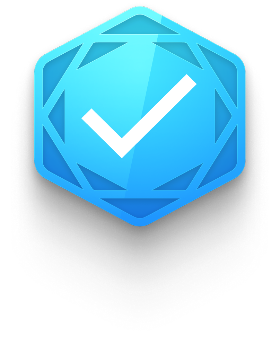
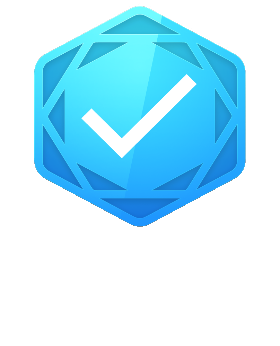
fix(profile): remove the drop shadow baked into the badge artwork
Every badge PNG carried a grey drop shadow. On the light theme it showed
as a grey smudge under the badges, and super.png's shadow ran off the
bottom of its canvas, which cut it off in a hard horizontal line.

The shadow pixels are stripped (near-black translucent pixels outside the
opaque artwork and its anti-aliased edge); canvas sizes are unchanged so
the art boxes in user-badge-assets.ts still hold. A test now fails if a
badge brings a baked-in shadow back or touches the bottom of its canvas.

Changed region(s): [[0.0857, 0.2023, 0.9143, 0.7803]]

diff --git a/test/user-badge-assets.test.js b/test/user-badge-assets.test.js
@@ -227,3 +227,26 @@ test('badge artwork stays within the mobile asset budget', () => {
     assert.ok(png.height <= maxHeight, `${name} height is ${png.height}`);
   }
 });
+
+test('badge artwork carries no baked-in drop shadow', () => {
+  // 原图带一层烤进去的灰色投影:白色主题下徽章底下一片灰,super.png 的投影还在画布底边
+  // 被截断成一条横线。投影像素是近乎纯黑的半透明像素(真正的抗锯齿边带着徽章自己的颜色)。
+  // 设计给的新徽章图要先去掉投影、画布尺寸不变(艺术框比例在 user-badge-assets.ts 里)。
+  const { PNG } = require('pngjs');
+  const dir = path.join(root, 'assets/badges');
+  for (const name of fs.readdirSync(dir).filter((file) => file.endsWith('.png'))) {
+    const { width, height, data } = PNG.sync.read(fs.readFileSync(path.join(dir, name)));
+    let shadowInk = 0;
+    for (let i = 0; i < width * height; i += 1) {
+      const alpha = data[i * 4 + 3];
+      const brightest = Math.max(data[i * 4], data[i * 4 + 1], data[i * 4 + 2]);
+      if (alpha > 0 && alpha < 230 && brightest <= 45) shadowInk += 1;
+    }
+    let bottomRowAlpha = 0;
+    for (let x = 0; x < width; x += 1) {
+      bottomRowAlpha = Math.max(bottomRowAlpha, data[((height - 1) * width + x) * 4 + 3]);
+    }
+    assert.equal(shadowInk, 0, `${name} 还带着投影像素`);
+    assert.equal(bottomRowAlpha, 0, `${name} 的画面碰到了画布底边,会被截成一条直线`);
+  }
+});
